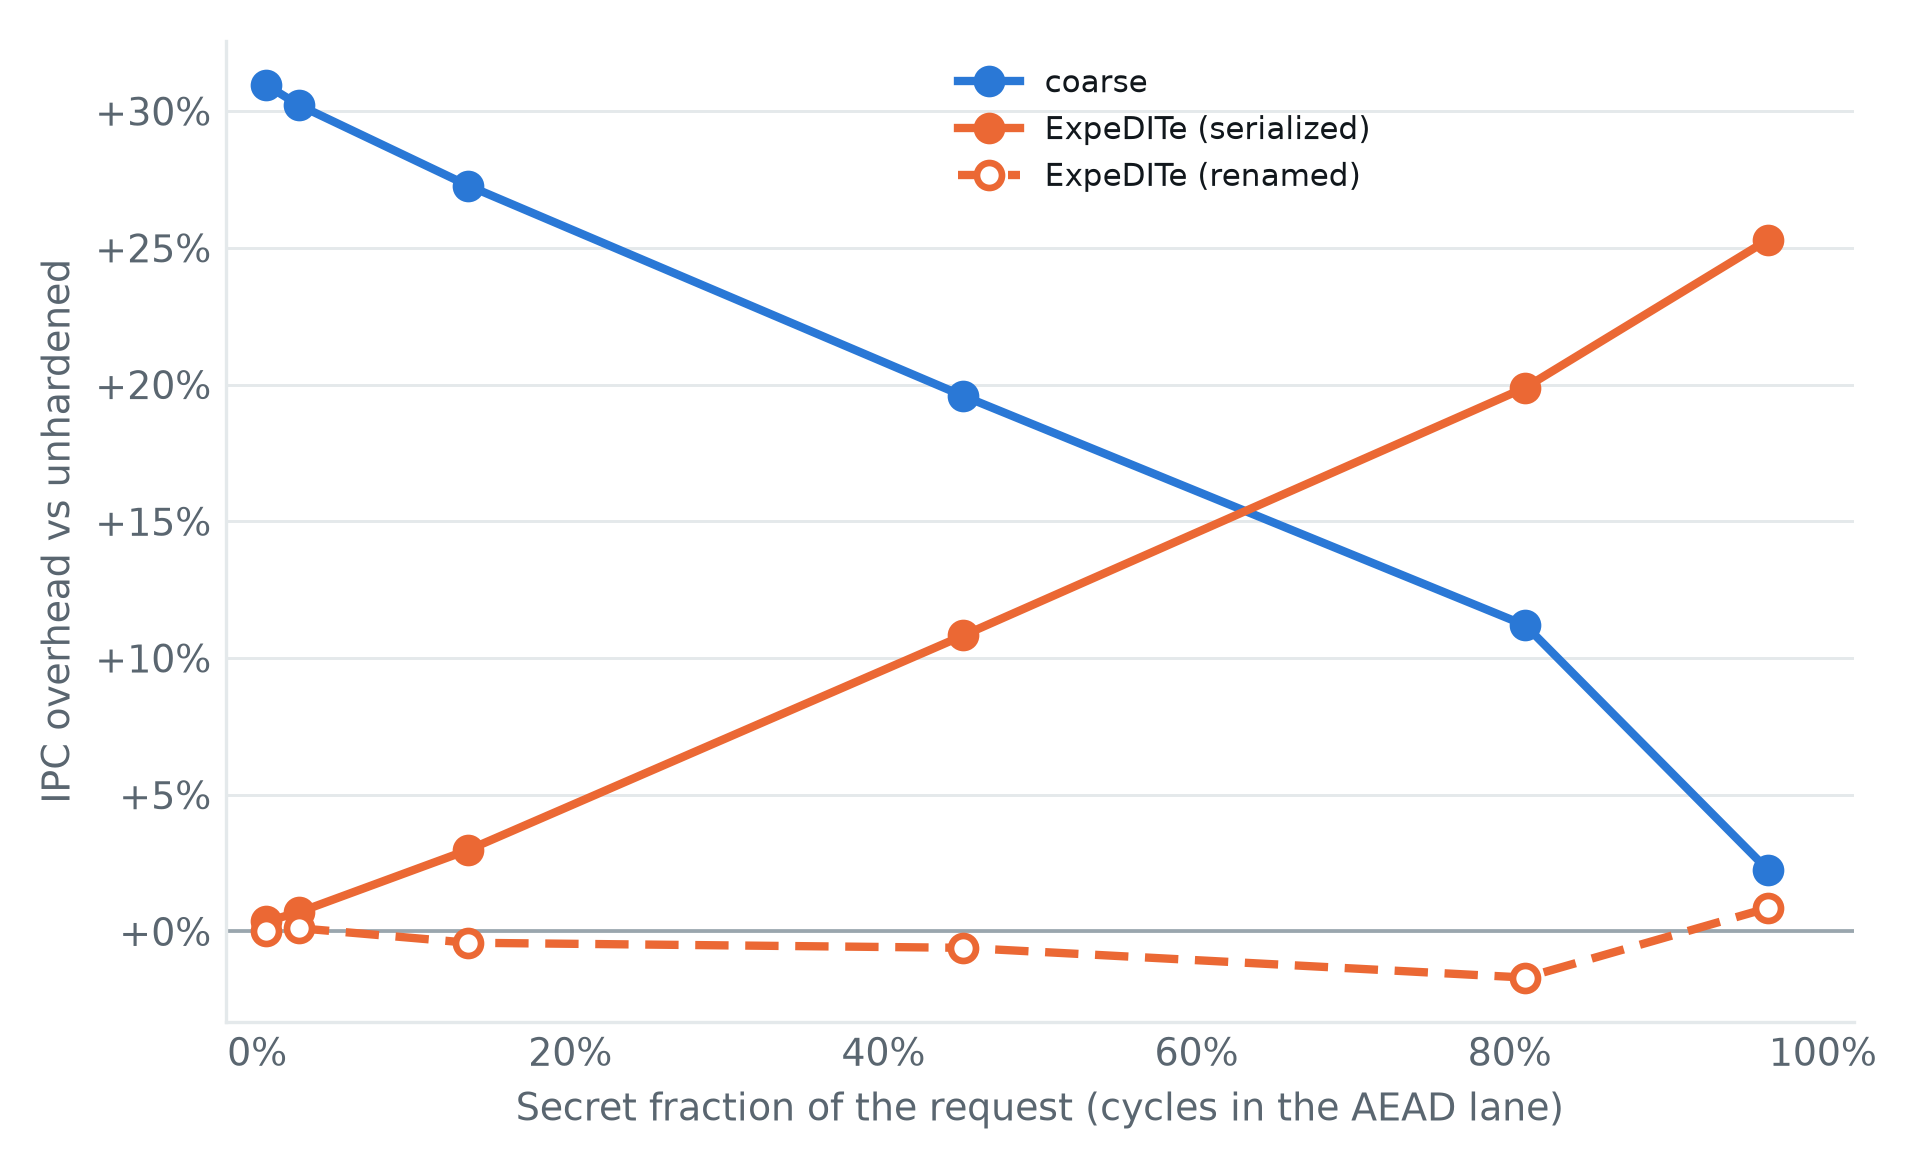
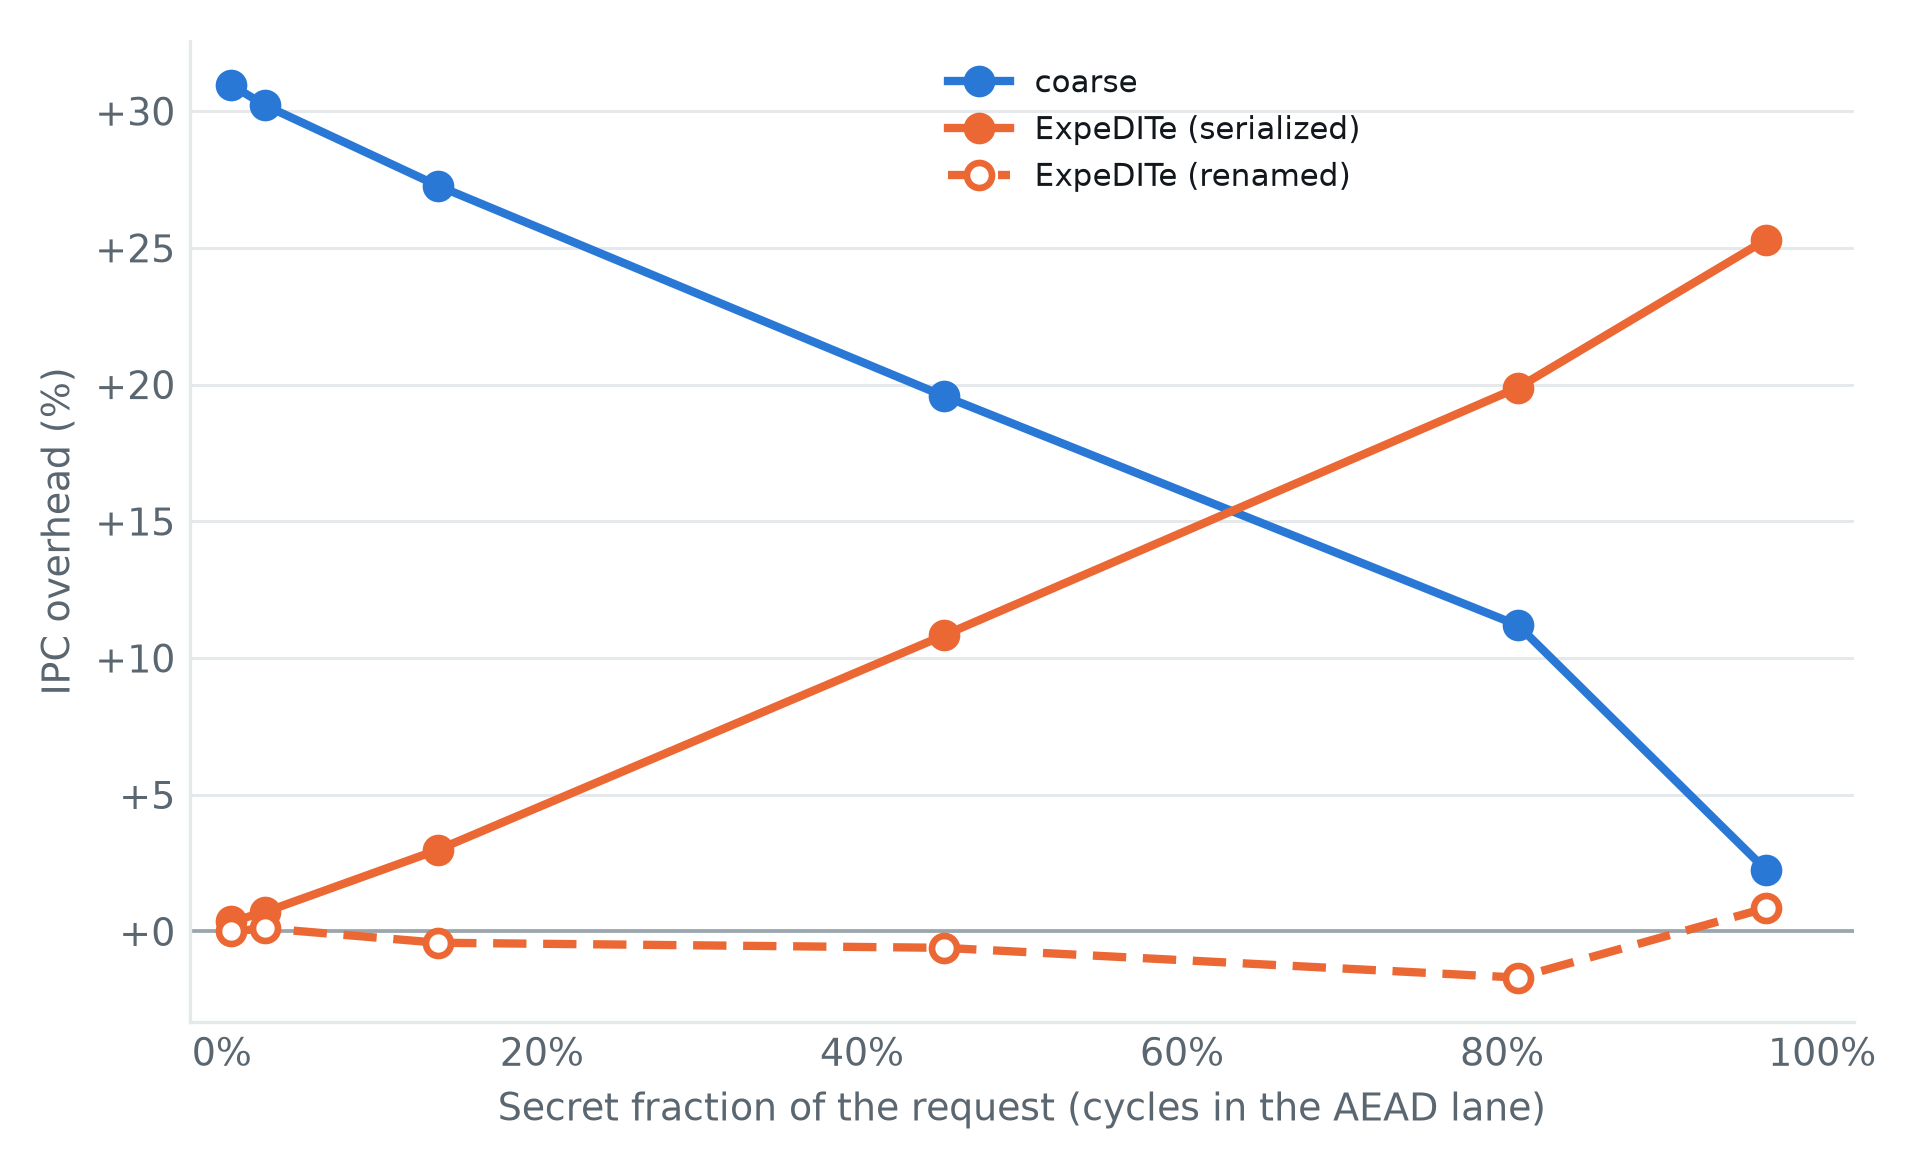
[paper] Experiment 02: the y axis is IPC overhead in percent
"IPC overhead vs unhardened" put the baseline in the axis label, where it is the
same word on every figure this experiment will ever produce - everything here is
against unhardened, and the legend already names what is being compared. The
label is the quantity and its unit: IPC overhead (%).

The ticks lose their per-tick "%" with it. The unit belongs in the label once,
not six times down the axis.

Claude-Session: https://claude.ai/code/session_011Aua6Kjs3Wt6AnYPc5G5Gw

diff --git a/utils/dit_host_screening/signed_lookup/fig_exp02.py b/utils/dit_host_screening/signed_lookup/fig_exp02.py
@@ -72,8 +72,10 @@ for name, ys, col, ls, mk, mfc in series:
     ax.plot(xs, ys, color=col, lw=2, ls=ls, marker=mk, ms=6, mfc=mfc, mec=col, mew=1.6, zorder=3)
 ax.axhline(0, color=BASE, lw=0.9, zorder=2)
 xaxis_secret_fraction(ax, f, Ls)
-ax.set_ylabel("IPC overhead vs unhardened")
-ax.yaxis.set_major_formatter(FuncFormatter(lambda v, _: f"{v:+.0f}%"))
+ax.set_ylabel("IPC overhead (%)")
+# The unit is in the label, so the ticks are bare numbers - a "%" on every tick
+# as well is the same word six times.
+ax.yaxis.set_major_formatter(FuncFormatter(lambda v, _: f"{v:+.0f}"))
 # No title on the figure: the caption carries it in the paper, and a title baked
 # into the image duplicates the caption and cannot be edited with the text.
 handles = [Line2D([], [], color=c, lw=2, ls=ls, marker="o", ms=6, mfc=mfc, mec=c, mew=1.6, label=n) for n, _, c, ls, _, mfc in series]
